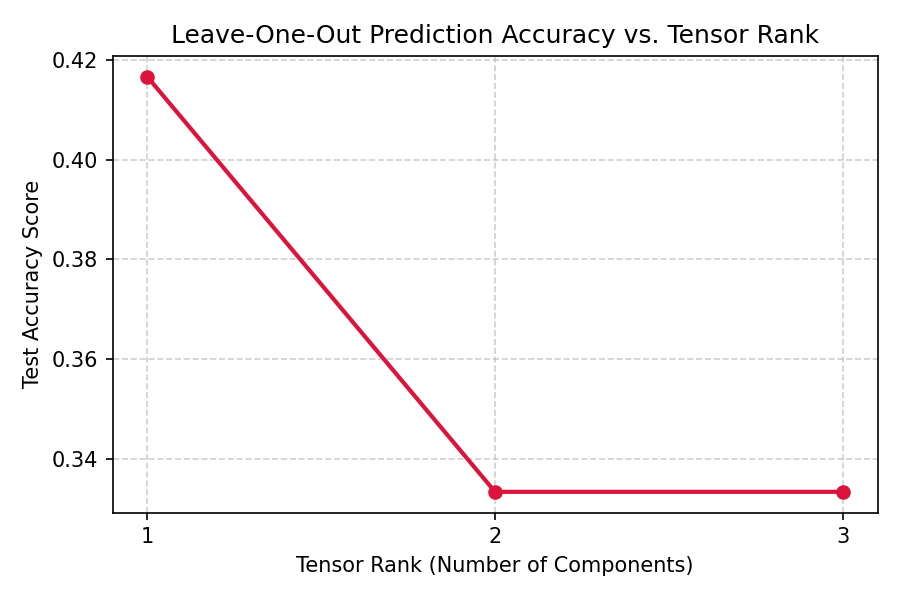
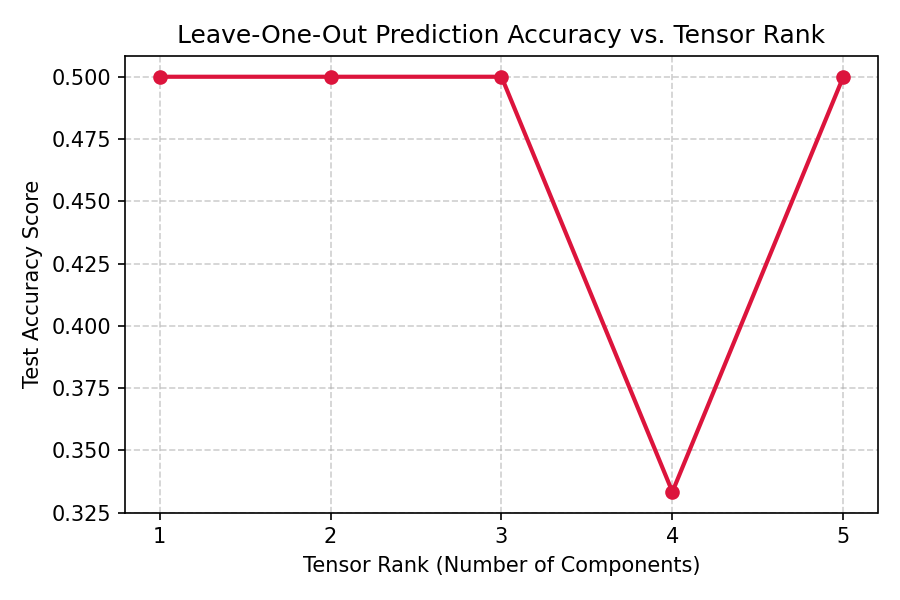
Updated changes

diff --git a/test_cv.py b/test_cv.py
@@ -1,7 +1,7 @@
 from data_import import convert_anndata_to_pseudobulk, convert_pseudobulk_to_tensor
 import anndata
 
-print("--- Starting our simple test ---")
+print("--- Testing ---")
 
 # Load just the RNA file to see if it works
 X_rna = anndata.read_h5ad("/mnt/yang_lab/ar3023/ctf_melanoma/data/scrna_non_tumor.h5ad")
@@ -52,7 +52,7 @@ X_atac_small = X_atac_small[X_atac_small.obs['reannotated_predicted_id'].isin(sh
 X_rna_small = X_rna_small[X_rna_small.obs['cell_type'].isin(shared_cell_types)].copy()
 
 print("Data filtering completed successfully.")
-# Convert our sliced and filtered matrices into pseudobulk profiles
+# Convert sliced and filtered matrices into pseudobulk profiles
 pseudobulk_atac_df = convert_anndata_to_pseudobulk(
     adata=X_atac_small,
     sample_col="joint_sample_id",
@@ -82,7 +82,7 @@ print(f"Pseudobulk tensor compilation complete.")
 print(f"ATAC tensor shape: {tensor_atac.shape} | RNA tensor shape: {tensor_rna.shape}")
 import numpy as np
 
-# Create the 0 and 1 classification labels for our 12 samples
+# Create the 0 and 1 classification labels for 12 samples
 y_raw = labels_rna["lesion_response"]
 y = np.array([0 if v == "R" else 1 for v in y_raw], dtype=int)
 
@@ -91,52 +91,16 @@ print("Labels match sequence:", y)
 cv_predictions = np.zeros(12)
 print("\n--- Starting Leave-One-Out Cross-Validation Loop ---")
 
-# We have 12 samples, so we loop from 0 to 11
-for test_index in range(12):
-    # 1. Identify which sample name is being left out for testing
-    left_out_sample = labels_rna['samples'][test_index]
-    
-    # 2. Split the targets (y) into 11 training samples and 1 test sample
-    y_train = np.delete(y, test_index)
-    y_test = y[test_index]
-    
-    # 3. Split the ATAC tensor into 11 training samples and 1 test sample
-    tensor_atac_train = np.delete(tensor_atac, test_index, axis=0)
-    tensor_atac_test = tensor_atac[test_index:test_index+1, :, :]
-    
-    # 4. Split the RNA tensor into 11 training samples and 1 test sample
-    tensor_rna_train = np.delete(tensor_rna, test_index, axis=0)
-    tensor_rna_test = tensor_rna[test_index:test_index+1, :, :]
-    
-    print(f"Fold {test_index+1}: Left out {left_out_sample} | Training set size: {tensor_rna_train.shape[0]}")
-    # --- Step 17: Run classification inside this validation fold ---
-    # We import the function dynamically here to ensure it is isolated
-    from predict import run_coupled_tpls_classification
-    
-    # We pass the 11 training samples into the TPLS function
-    # Let's use rank=2 just like your trial script did
-    (tpls, lr_model), train_acc, train_proba = run_coupled_tpls_classification(
-        [tensor_atac_train, tensor_rna_train], 
-        y_train, 
-        rank=2, 
-        return_proba=True
-    )
-    
-    print(f"       -> Successfully completed Fold {test_index+1} training! Train Accuracy: {train_acc:.2f}")
-    # Project the single left-out test sample into our trained model space
-    test_transformed = tpls.transform([tensor_atac_test, tensor_rna_test])
-    
-    # Predict whether this left-out sample is a 0 or 1
-    sample_pred = lr_model.predict(test_transformed)[0]
-    
-    # Save that prediction into our array
-    cv_predictions[test_index] = sample_pred
-    
-    print(f"       -> Test Result | True Label: {y_test} | Predicted: {int(sample_pred)}")
-# --- Calculate and print out the final cross-validation score ---
-from sklearn.metrics import accuracy_score
+# Call updated function directly on the whole dataset
+from predict import run_coupled_tpls_classification
 
-final_cv_accuracy = accuracy_score(y, cv_predictions)
-print("\n==============================================")
+models, final_cv_accuracy, cv_predictions = run_coupled_tpls_classification(
+    tensors=[tensor_atac, tensor_rna],
+    labels=y,
+    rank=2,
+    return_proba=False
+)
+
+print(f"\n==================================================")
 print(f"FINAL CROSS-VALIDATION ACCURACY: {final_cv_accuracy * 100:.2f}%")
-print("==============================================")
+print(f"==================================================")
